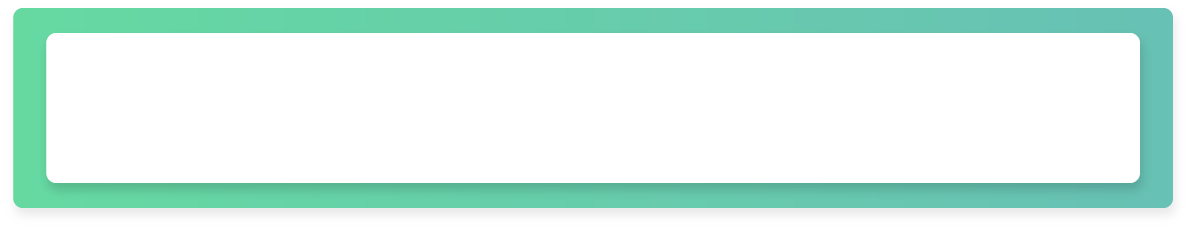
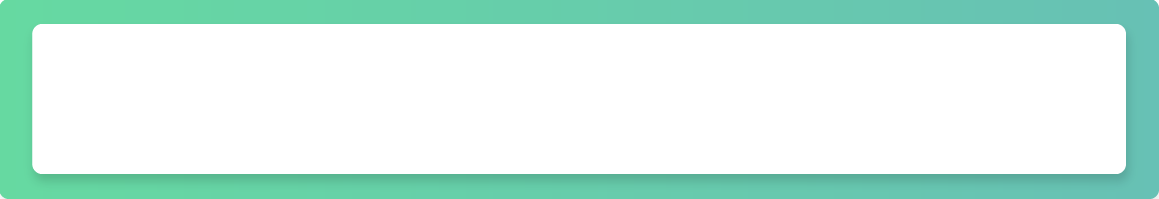
ranking complete(add css)

Changed region(s): [[0.0, 0.0, 1.0, 1.0]]

diff --git a/src/main/resources/templates/html/ranking/ranking.html b/src/main/resources/templates/html/ranking/ranking.html
@@ -18,21 +18,11 @@
       color: #494949;
     }
 
-    tbody > #rank01 {
-      background-image: url("/img/rank1_background.png");
-      background-repeat: no-repeat;
-      /*background-size: 103% 120%;*/
-      background-size: 102% 106%;
-      background-position: center;
-      height: 190px;
-      line-height: 170px;
-    }
-
-    #time > .real_time {
+    .real_time {
       color: #00c063;
       font-weight: 600;
     }
-    #time > .text_time {
+    .text_time {
       color: #000000;
       opacity: 0.5;
       font-weight: 600;
@@ -50,30 +40,71 @@
       font-size: 25px;
     }
 
-    tbody > tr > th > img {
-      width: 30px;
-    }
-
     #rank01 img {
       width: 50px;
     }
 
-    #rank01 th {
-      padding-bottom: 0px;
-      padding-top: 50px;
+    .top_rank {
+      vertical-align: middle;
+      width: 30px;
     }
 
-    #rank01 th, #rank01 td {
-      height: 150px;
+    .content:not(#content01) {
+      background-color: white;
+      margin-top: 40px;
+      padding: 20px;
+      border-radius: 15px;
     }
 
+    #content01 {
+      margin-top: 40px;
+      padding: 10px;
+    }
 
-    /*img {*/
-    /*  vertical-align: middle;*/
-    /*}*/
-    /*img {*/
-    /*  width: 30px;*/
-    /*}*/
+    #rank01 {
+      background-image: url("/img/rank1_background.png");
+      background-repeat: no-repeat;
+      background-size: 100% 100%;
+      background-position: center;
+      line-height: 170px;
+    }
+
+    #rank01 > .user_name .real_time {
+      font-size: 30px;
+      color: #00c063;
+      font-weight: 600;
+    }
+
+    .user_list {
+      text-align: left;
+      border-radius: 15px;
+    }
+
+    .ranking {
+      display: inline-block;
+      width: 10%;
+      text-align: center;
+      margin-left: 5%;
+    }
+    .name {
+      display: inline-block;
+      width: 60%;
+      text-align: left;
+      margin-left: 10%;
+    }
+    .volunteer_time {
+      display: inline-block;
+      width: 10%;
+      text-align: center;
+    }
+    #rank01 .name span {
+      color: #00c063;
+      font-weight: 600;
+      font-size: 30px;
+    }
+    .low_rank {
+      color: #444444;
+    }
   </style>
 </head>
 <body>
@@ -83,43 +114,27 @@
 
   <div id="main">
     <div class="upper">
-      <h4 class="header">랭킹</h4>
+      <h4>랭킹</h4>
     </div>
 
     <div class="actList">
-
-<!--      table 사용 안한 버전 -->
-<!--      <div th:each="userInfo : ${userRanking}" th:id="rank + 10*${userRanking.number}+${userInfoStat.count}">-->
-<!--        <div th:with="rank=10*${userRanking.number}+${userInfoStat.count}">-->
-<!--          <img th:if="${rank} &lt; 4" th:src="|/img/ranking${rank}.png|">-->
-<!--          <span th:if="${rank} &gt; 3" th:text="10*${userRanking.number}+${userInfoStat.count}"></span>-->
-<!--          <a th:href="@{'/user/detail/' + ${userInfo.id}}">-->
-<!--            <span th:text="${userInfo.name}"></span>-->
-<!--          </a>-->
-<!--          <span class="real_time" th:text="${userInfo.volunteerTime}"></span>-->
-<!--          <span class="text_time">시간</span>-->
-<!--        </div>-->
-<!--      </div>-->
-
-      <table style="width: 100%" cellpadding="0" cellspacing="0">
-        <tbody>
-          <tr th:each="userInfo : ${userRanking}" th:id="rank + 10*${userRanking.number}+${userInfoStat.count}">
-            <th id="rank" th:with="rank=10*${userRanking.number}+${userInfoStat.count}">
-              <img th:if="${rank} &lt; 4" th:src="|/img/ranking${rank}.png|">
-              <span th:if="${rank} &gt; 3" th:text="10*${userRanking.number}+${userInfoStat.count}"></span>
-            </th>
-            <td id="user_name">
-              <a th:href="@{'/user/edit/' + ${userInfo.id}}">
-                <span th:text="${userInfo.name}"></span>
-              </a>
-            </td>
-            <td id="time">
-              <span class="real_time" th:text="${userInfo.volunteerTime}"></span>
-              <span class="text_time">시간</span>
-            </td>
-          </tr>
-        </tbody>
-      </table>
+      <div th:each="userInfo : ${userRanking}" th:id="rank + 10*${userRanking.number}+${userInfoStat.count}" class="user_list">
+        <div th:with="rank=10*${userRanking.number}+${userInfoStat.count}" class="content user_name" th:id="content+ 10*${userRanking.number}+${userInfoStat.count}">
+          <div class="ranking">
+            <img th:if="${rank} &lt; 4" th:src="|/img/ranking${rank}.png|" class="top_rank">
+            <span th:if="${rank} &gt; 3" th:text="10*${userRanking.number}+${userInfoStat.count}" class="low_rank"></span>
+          </div>
+          <div class="name">
+            <a th:href="@{'/user/detail/' + ${userInfo.id}}">
+              <span th:text="${userInfo.name}"></span>
+            </a>
+          </div>
+          <div class="volunteer_time">
+            <span class="real_time" th:text="${userInfo.volunteerTime}"></span>
+            <span class="text_time">시간</span>
+          </div>
+        </div>
+      </div>
     </div>
 
     <div class="down">
@@ -143,40 +158,6 @@
       </div>
     </div>
   </div>
-
-<!--  <div id="main">-->
-<!--    <h4>랭킹</h4>-->
-
-<!--    <div id="basicBody">-->
-
-<!--      <div style="margin-left: 15%">-->
-<!--        <table class="table">-->
-<!--          <thead>-->
-<!--          <tr>-->
-<!--            <th scope="col">등수</th>-->
-<!--            <th scope="col">유저 이름</th>-->
-<!--          </tr>-->
-<!--          </thead>-->
-
-<!--          <tbody>-->
-<!--          <tr th:each="userInfo : ${userRanking}">-->
-<!--            <th scope="row">-->
-<!--              <span th:text="${userInfoStat.index}+1"></span>-->
-<!--            </th>-->
-<!--            <td>-->
-<!--              <a th:href="@{'/user/detail/' + ${userInfo.id}}">-->
-<!--                <span th:text="${userInfo.name}"></span>-->
-<!--              </a>-->
-<!--              <span th:text="'(' + ${userInfo.volunteerTime} + ' 시간)'"></span>-->
-<!--            </td>-->
-<!--          </tr>-->
-<!--          </tbody>-->
-<!--        </table>-->
-<!--      </div>-->
-<!--    </div>-->
-<!--  </div>-->
-
-
 
   <div lang="en" th:replace="common/footer :: footer"></div>
 
